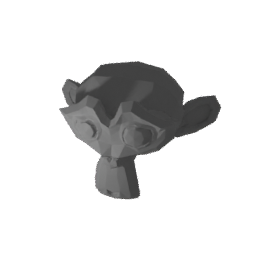
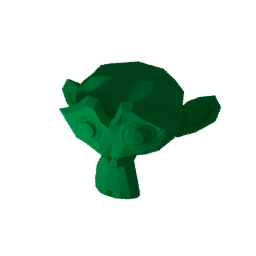
Colour BDSF docs

Changed region(s): [[0.2188, 0.2188, 0.875, 0.7812]]

diff --git a/examples/quickstart.py b/examples/quickstart.py
@@ -7,8 +7,12 @@ bsyn.run_this_script(open_blender=False)  # If called from Python, this will run
 comp = bsyn.Compositor()  # Create a new compositor - this manages all the render layers
 
 # Generate some basic scene components. Alternatively, use bsyn.load_blend to load a .blend file
-monkey = bsyn.Mesh.from_primitive('monkey', scale=2, rotation_euler=(0, 0, -0.5))  # Create a new mesh from a primitive
+monkey = bsyn.Mesh.from_primitive('monkey', scale=2, rotation_euler=(0, 0, 0.5))  # Create a new mesh from a primitive
 light = bsyn.Light.create('POINT', location=(0, -5, 0), intensity=100)  # Create a new light
+
+# add a basic material
+monkey.material = bsyn.Material()
+monkey.material.set_bdsf_property("Base Color", (0, 0.8, 0.2, 1))
 
 # Set some render settings
 bsyn.render.set_cycles_samples(10)

diff --git a/blendersynth/blender/material.py b/blendersynth/blender/material.py
@@ -14,7 +14,7 @@ def _new_shader_node(node_tree, node_type):
 class Material(BsynObject):
     """BlenderSynth Material class. Will always be a node material."""
 
-    def __init__(self, name, shader_type="ShaderNodeBsdfPrincipled", mat=None):
+    def __init__(self, name="NewMaterial", shader_type="ShaderNodeBsdfPrincipled", mat=None):
         if mat is None:
             mat = bpy.data.materials.new(name)
             mat.use_nodes = True
